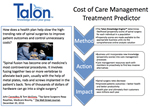
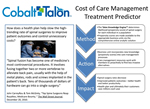
mis changes before launch

diff --git a/pages/services.php b/pages/services.php
@@ -49,19 +49,14 @@
          	<div class="content">
            		<img class="main_image" src="/images/services/main.jpg" />
               		<h2>Overview</h2>
-              			<p>Talon Analytics is a software company offering solutions designed to solve complex business
-                        challenges using advanced analytics. Talon specializes in consumer, predictive and cost
-                        management analytics. The product that Talon offers is a fully-integrated, best-in-class, and
-                        economically efficient analytic platform consisting of an industry-leading data warehousing
-                        appliance and an equivalent level business intelligence application…all delivered as a managed
-                        service and provided on a pay-as-you-go basis.</p>
-              			<p>Named <strong>Cobalt Talon Knowledge Engine&#8482; (TKE)</strong>, the solution covers all of the basics and integrates advanced, proprietary predictive analytic models and methodologies that enable companies to solve the most pressing industry-specific business problems. The end result is significant, tangible economic benefit and ultimately a strategic competitive advantage for Cobalt Talon customers. </p>
+              			<p>Now more than ever healthcare payers and providers are faced with complex business opportunities and regulatory challenges that can no longer be solved without effective analytics. Cobalt Ventures and Talon Analytics have partnered to  bring the strength of healthcare management together with healthcare analytics to form Cobalt Talon. Using the Cobalt Talon Knowledge for Healthcare, along with Cobalt business modeling, your company will be able to address these new opportunities as well as serve the traditional reporting and analytic needs required in the industry. </p>
+                    <p><strong>The Talon Knowledge Engine&#8482; for Healthcare</strong> solution covers all of the basics and integrates advanced, proprietary predictive analytic models and methodologies that enable companies to solve the most pressing industry-specific business problems. The end result is significant, tangible economic benefit and ultimately a strategic competitive advantage for Cobalt Talon customers. </p>
              		<h3><a href="/services/how-it-works">TKE: How it works</a></h3>
                 <!--Recipe-->
                 <div class="text_with_image">
                   <h2>Recipe for a Successful Analytic Product</h2>
                   <div class="talon_key">
-                    <img src="/images/services/talon_key.jpg" />
+                    <!-- <img src="/images/services/talon_key.jpg" /> -->
                   </div>
                   <ul class="acc_class">
                     <li><strong><a class="acc_link" href="#">Top-notch People</a></strong></li>
@@ -206,7 +201,7 @@
                 	</ul>
             	</div>
               <div class="action">
-                <h4>Is our TKE the solution for you?</h4>
+                <h4>Is the Cobalt Talon solution right for you?</h4>
                 <a class="fancy" href="/contact#contact">Check It Out</a>
               </div>
             </div>

diff --git a/index.php b/index.php
@@ -28,8 +28,8 @@
             <div id="events">
               <h4 class="side_slider"><a href="/services">Talon Knowledge Engine &trade;</a></h4>
               <p>The platform is populated with proprietary, industry-specific data models which include data enhancement processes that enable advanced features such as predictive analytics.  <a href="/services">Read More</a></p>
-              <h4 class="side_slider"><a href="/products">Cobalt Talon: <br>TKE for Healthcare</a></h4>
-              <p>TKE for healthcare enables healthcare payers with capabilities such as cost and quality of care analytics, predictive risk management, “propensity to buy” models, provider performance monitoring, and much, much more.   <a href="/products">Read More</a></p>
+              <h4 class="side_slider"><a href="/products">Cobalt Talon: <br>Knowledge Engine for Healthcare</a></h4>
+              <p>Knowledge Engine for healthcare enables healthcare payers with capabilities such as cost and quality of care analytics, predictive risk management, “propensity to buy” models, provider performance monitoring, and much, much more.   <a href="/products">Read More</a></p>
             </div>
           </div>
           <div id="break"></div>
@@ -82,7 +82,7 @@
             <div class="platform">
               <div class="platform-inner claw">
                 <h2>Talon’s Knowledge Engine</h2>
-                <p>Cobalt Talon has developed a high-performance analytic platform consisting of an industry-leading data warehousing appliance and a world-class business intelligence application.  This winning combination provides ultimate performance and rich features, such as advanced data visualization techniques. </p>
+                <p>Talon has developed a high-performance analytic platform consisting of an industry-leading data warehousing appliance and a world-class business intelligence application.  This winning combination provides ultimate performance and rich features, such as advanced data visualization techniques. </p>
                 <p>The platform is populated with proprietary, industry-specific data models which include data enhancement processes that enable advanced features such as predictive analytics.  Data is transformed into knowledge which leads to positive business impact.    </p>
                 <p>The overall result is the <a href="/services/how-it-works"><strong>Talon Knowledge Engine&#8482;</strong></a>.</p>        
               </div>
